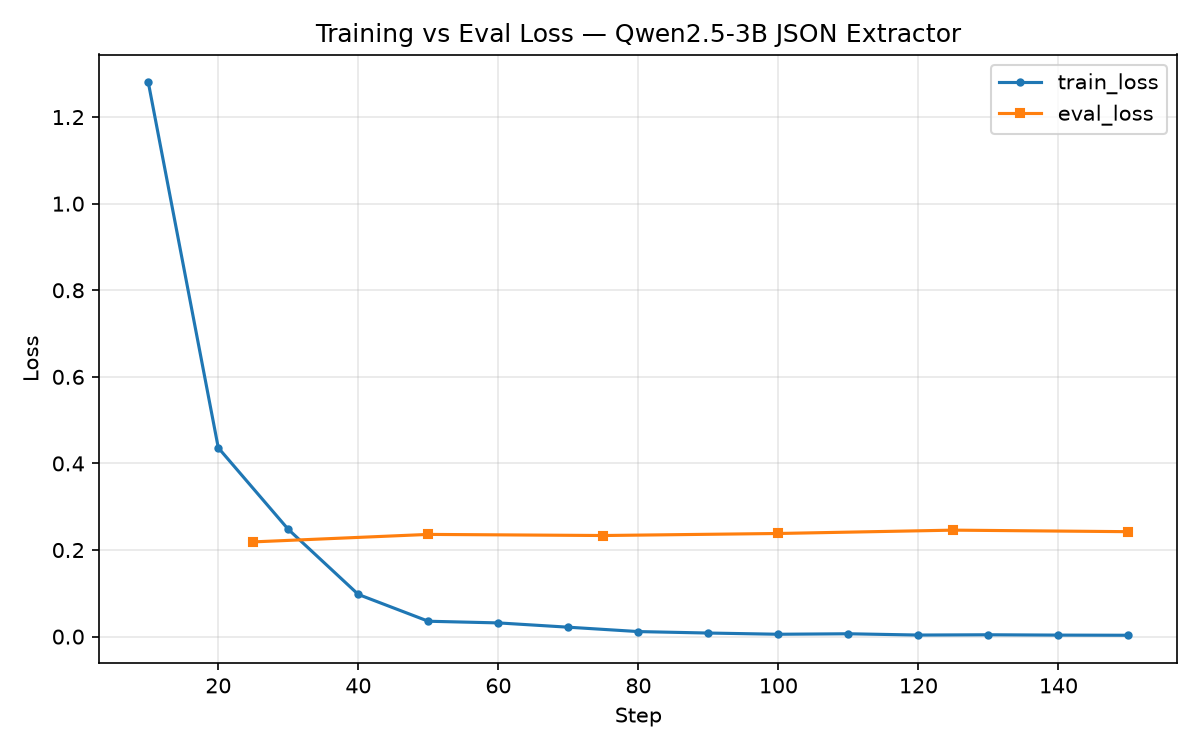
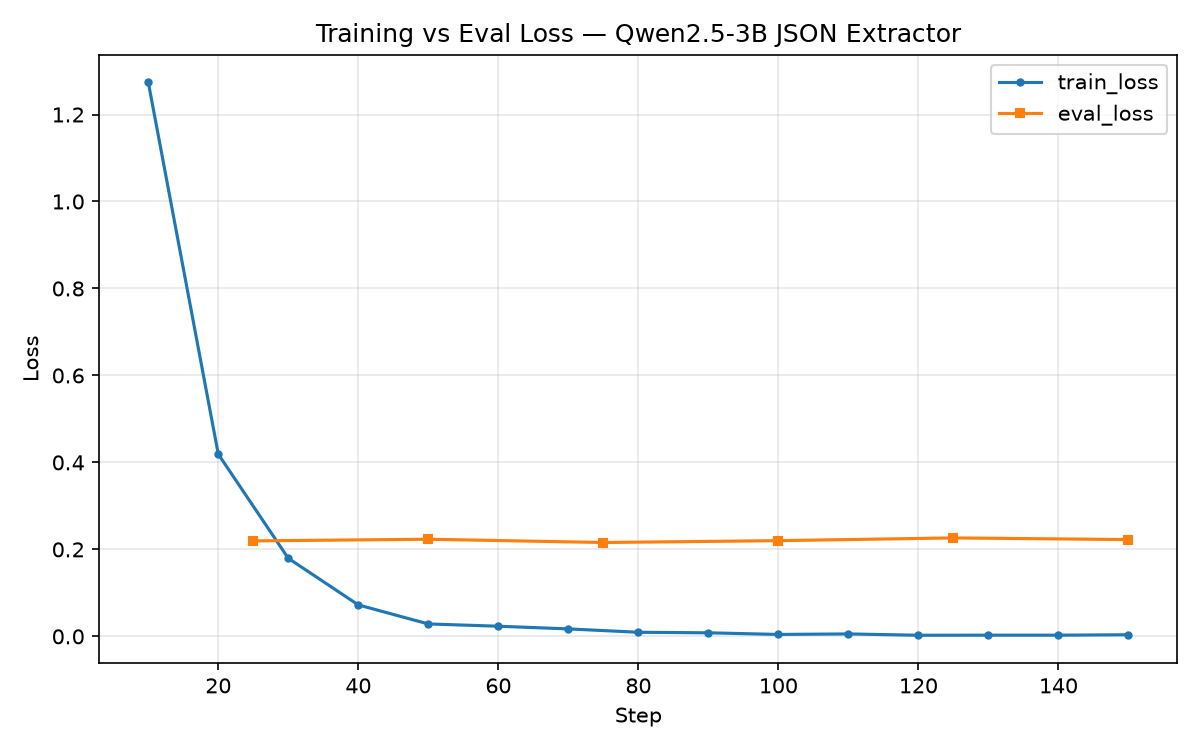
fix(training): set eval_loss to loss

diff --git a/README.md b/README.md
@@ -83,4 +83,4 @@ Optimizer- adamw_8bit
 ### Note
 Date: July 23, 2026\
 Model overfitting\
-Train loss: 0.003, Validation loss: 242, model is still memorizing the training data
+Train loss: 0.003, Validation loss: 0.222, model is still memorizing the training data